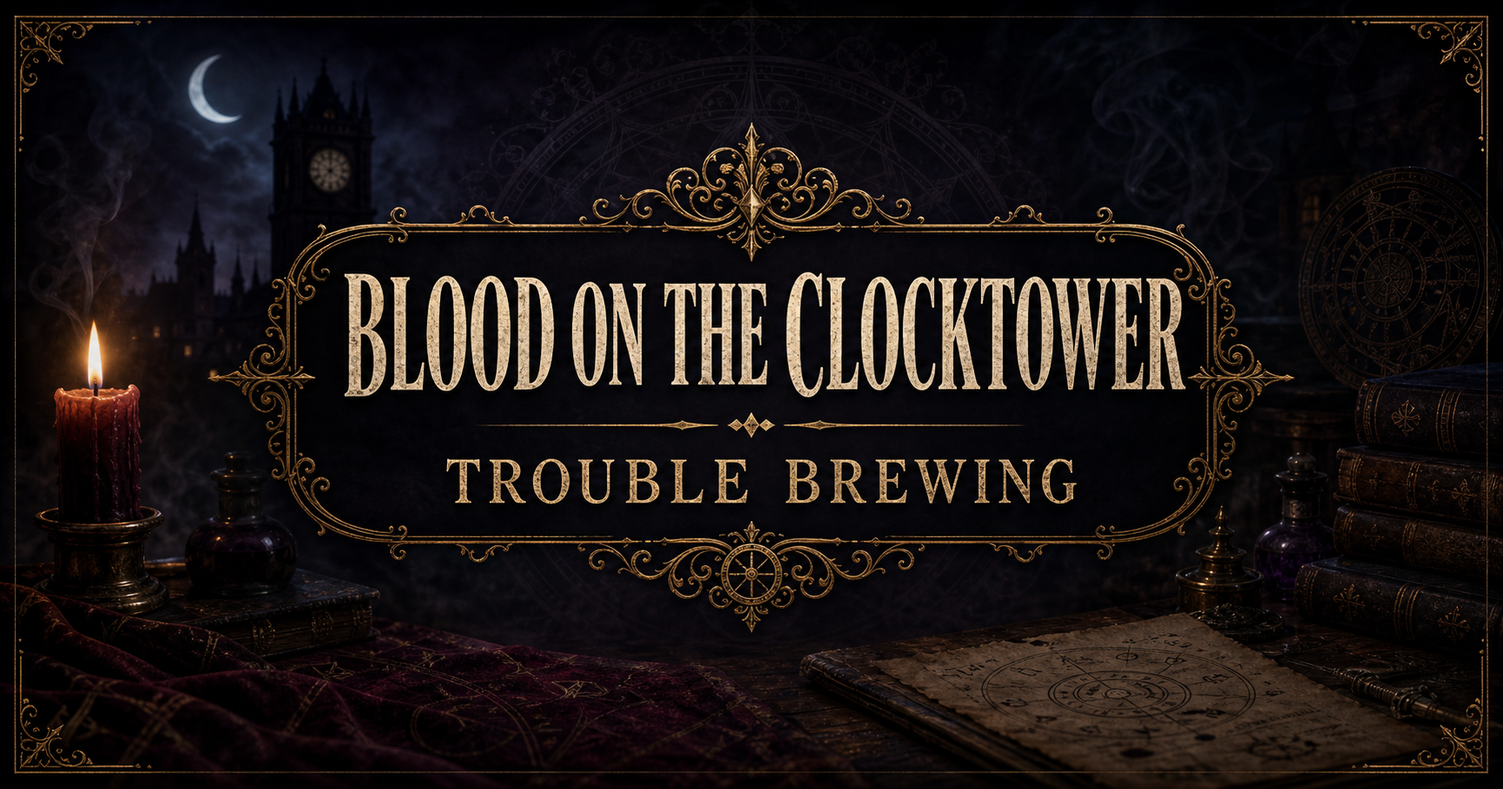
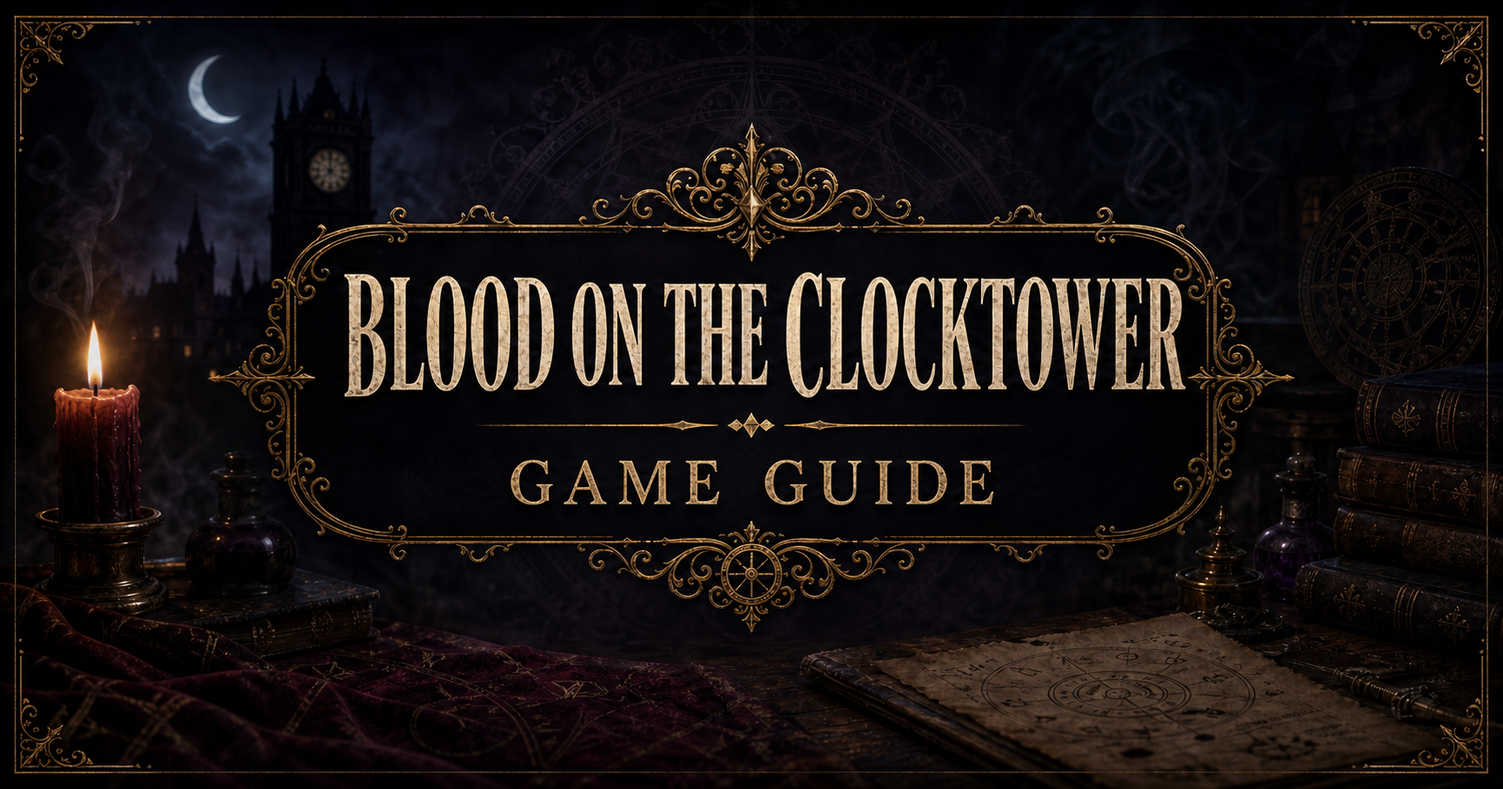
Generaliza la identidad del proyecto

diff --git a/index.html b/index.html
@@ -4,12 +4,15 @@
 <head>
   <meta charset="utf-8">
   <meta name="viewport" content="width=device-width, initial-scale=1">
-  <title>Trouble Brewing · Guía pública</title>
-  <meta id="meta-description" name="description" content="Pantalla TV de referencia pública para Blood on the Clocktower: Trouble Brewing, con música de fantasía y los 23 personajes.">
-  <meta id="og-title" property="og:title" content="Blood on the Clocktower · Trouble Brewing">
-  <meta id="og-description" property="og:description" content="Guía pública para una partida presencial de Trouble Brewing.">
+  <title>Blood on the Clocktower · Guía de juego</title>
+  <meta id="meta-description" name="description" content="Guía multilingüe para Blood on the Clocktower con personajes, habilidades y música ambiental para sus tres ediciones base.">
+  <meta name="robots" content="index,follow">
+  <link rel="canonical" href="https://emilio-devs.github.io/bloodontheclocktower/">
+  <meta id="og-title" property="og:title" content="Blood on the Clocktower · Guía de juego">
+  <meta id="og-description" property="og:description" content="Guía multilingüe para acompañar partidas presenciales de Blood on the Clocktower.">
   <meta property="og:type" content="website">
-  <meta property="og:image" content="https://emilio-devs.github.io/blood-on-the-clock-tower-trouble-brewing-tv/og.png">
+  <meta property="og:url" content="https://emilio-devs.github.io/bloodontheclocktower/">
+  <meta property="og:image" content="https://emilio-devs.github.io/bloodontheclocktower/og.png">
   <style>
     :root{--cream:#f2e8d2;--muted:#d0c6b4;--gold:#b99a59;--town:#74b9e8;--out:#57cec8;--min:#e57c47;--demon:#ef4350}
     *{box-sizing:border-box}html,body{width:100%;height:100%;margin:0;overflow:hidden}html[data-ready="false"] body{visibility:hidden}body{background:#07070a;color:var(--cream);font-family:"Segoe UI",Arial,sans-serif;-webkit-font-smoothing:antialiased}button,input{font:inherit}button{color:inherit}.visually-hidden{position:absolute!important;width:1px!important;height:1px!important;padding:0!important;margin:-1px!important;overflow:hidden!important;clip:rect(0,0,0,0)!important;white-space:nowrap!important;border:0!important}
@@ -57,7 +60,7 @@
   <main id="app">
     <div class="mist" aria-hidden="true"></div>
     <header>
-      <div class="brand"><div class="moon" aria-hidden="true">☾</div><div class="brand-copy"><p id="brand-name">Blood on the Clocktower</p><h1 class="visually-hidden" id="page-heading">Blood on the Clocktower · Trouble Brewing</h1><div class="dropdown edition-picker"><button id="edition-trigger" class="edition-trigger" type="button" aria-haspopup="menu" aria-expanded="false" aria-controls="edition-menu"><span id="edition-name">Trouble Brewing</span><i data-lucide="chevron-down" aria-hidden="true"></i></button><div id="edition-menu" class="dropdown-menu edition-menu" role="menu"></div></div></div></div>
+      <div class="brand"><div class="moon" aria-hidden="true">☾</div><div class="brand-copy"><p id="brand-name">Blood on the Clocktower</p><h1 class="visually-hidden" id="page-heading">Blood on the Clocktower · Guía de juego</h1><div class="dropdown edition-picker"><button id="edition-trigger" class="edition-trigger" type="button" aria-haspopup="menu" aria-expanded="false" aria-controls="edition-menu"><span id="edition-name">Trouble Brewing</span><i data-lucide="chevron-down" aria-hidden="true"></i></button><div id="edition-menu" class="dropdown-menu edition-menu" role="menu"></div></div></div></div>
       <div class="now"><small id="ambience-label">Ambiente seleccionado</small><span id="track-name">Preparando ambiente…</span></div>
       <div class="controls" aria-label="Controles globales">
         <div class="dropdown language-picker"><button id="language-trigger" class="language-trigger" type="button" aria-haspopup="menu" aria-expanded="false" aria-controls="language-menu"><i data-lucide="languages" aria-hidden="true"></i><span id="language-code" class="language-code">ES</span><i class="chevron" data-lucide="chevron-down" aria-hidden="true"></i></button><div id="language-menu" class="dropdown-menu language-menu" role="menu"></div></div>
@@ -79,7 +82,7 @@
     <div id="track-toast" class="track-toast" aria-live="polite"></div>
   </main>
   <script src="https://unpkg.com/lucide@0.468.0/dist/umd/lucide.min.js"></script>
-  <script id="i18n-data" type="application/json">{"es":{"locale":"es","label":"Español","ui":{"brand":"Blood on the Clocktower","documentTitle":"{edition} · Guía pública","metaDescription":"Pantalla TV de referencia pública para Blood on the Clocktower: {edition}, con música de fantasía y los personajes del guion.","ogTitle":"Blood on the Clocktower · {edition}","ogDescription":"Guía pública para una partida presencial de {edition}.","editionSelector":"Seleccionar edición","languageSelector":"Seleccionar idioma","comingSoon":"Próximamente","ambienceSelected":"Ambiente seleccionado","preparingAmbience":"Preparando ambiente…","controls":"Controles globales","play":"Reproducir","pause":"Pausar","playMusic":"Reproducir música","pauseMusic":"Pausar música","nextTrack":"Cambiar canción","volume":"Volumen de la música","fullscreen":"Pantalla completa","exitFullscreen":"Salir de pantalla completa","nowPlaying":"Ahora suena: {track}","footer":"Guía pública para jugadores"},"trackMoods":{"tavernFolk":"taberna folk","medievalDance":"danza medieval","darkFolk":"folk oscuro","violinLute":"violín y laúd","livelyTavern":"taberna animada"},"editions":[{"id":"trouble-brewing","name":"Trouble Brewing","status":"available","groups":[{"id":"townsfolk","label":"Aldeanos","note":"","roles":[{"id":"generic-townsfolk","name":"Aldeano","icon":"user","ability":["No tienes ninguna habilidad. ¡Pero sigues siendo una buena persona! Ayuda a tu pueblo a encontrar al Demonio."]},{"id":"washerwoman","name":"Lavandera","icon":"shirt","ability":["La primera noche, descubres que entre 2 jugadores, 1 es un \u003cstrong>Aldeano\u003c/strong> concreto."]},{"id":"librarian","name":"Bibliotecario","icon":"book-marked","ability":["La primera noche, descubres que entre 2 jugadores, 1 es un \u003cstrong>Forastero\u003c/strong> concreto. (O que no hay ninguno en juego.)"]},{"id":"investigator","name":"Investigador","icon":"search","ability":["La primera noche, descubres que entre 2 jugadores, 1 es un \u003cstrong>Secuaz\u003c/strong> concreto."]},{"id":"chef","name":"Chef","icon":"chef-hat","ability":["La primera noche, descubres cuántas parejas de jugadores malvados están sentadas juntas."]},{"id":"empath","name":"Empático","icon":"hand-heart","ability":["Cada noche, descubres cuántos de tus 2 vecinos vivos son malvados."]},{"id":"fortune-teller","name":"Adivino","icon":"eye","ability":["Cada noche, elige 2 jugadores: descubres si alguno es el \u003cstrong>Demonio\u003c/strong>. Un jugador bueno puede aparecer como \u003cstrong>Demonio\u003c/strong>, aunque no lo sea."]},{"id":"undertaker","name":"Enterrador","icon":"shovel","ability":["Cada noche, después de la primera, descubres el rol del jugador ejecutado durante el día."]},{"id":"monk","name":"Monje","icon":"church","ability":["Cada noche, después de la primera, elige a otro jugador: el \u003cstrong>Demonio\u003c/strong> no puede matarlo esa noche."]},{"id":"ravenkeeper","name":"Guardacuervos","icon":"bird","ability":["Si mueres de noche, elige un jugador y descubres su rol."]},{"id":"soldier","name":"Soldado","icon":"shield","ability":["Si el \u003cstrong>Demonio\u003c/strong> te elige como víctima, no puede matarte."]},{"id":"virgin","name":"Virgen","icon":"flower-2","ability":["La primera vez que te nominen, si quien lo hace es un \u003cstrong>Aldeano\u003c/strong>, es ejecutado inmediatamente. Si no, no ocurre nada y pierdes esta habilidad."]},{"id":"slayer","name":"Verdugo","icon":"crosshair","ability":["Una vez por partida, durante el día, elige públicamente a un jugador: si es el \u003cstrong>Demonio\u003c/strong>, muere."]},{"id":"mayor","name":"Alcalde","icon":"landmark","ability":["Si solo quedan 3 jugadores vivos y no hay ejecución, tu equipo gana. Si mueres de noche, otro jugador podría morir en tu lugar."]}]},{"id":"outsiders","label":"Forasteros","note":"","roles":[{"id":"saint","name":"Santo","icon":"sparkles","ability":["Si el pueblo te ejecuta, tu equipo pierde."]},{"id":"recluse","name":"Recluso","icon":"castle","ability":["Las habilidades que te investiguen podrían verte como \u003cstrong>malvado\u003c/strong>, \u003cstrong>Secuaz\u003c/strong> o \u003cstrong>Demonio\u003c/strong>, aunque no lo seas, incluso muerto."]},{"id":"drunk","name":"Borracho","icon":"beer","ability":["No sabes que eres el Borracho. Crees que eres un personaje Aldeano, pero no lo eres."]},{"id":"butler","name":"Mayordomo","icon":"bell-ring","ability":["Cada noche, elige a un jugador (no tú): mañana solo puedes votar si ese jugador también vota en esa nominación."]}]},{"id":"minions","label":"Secuaces","note":"No saben quién es el \u003cstrong>Demonio\u003c/strong>.","roles":[{"id":"scarlet-woman","name":"Mujer Escarlata","icon":"flower","ability":["Si hay 5 o más jugadores vivos y el Demonio muere, tú te conviertes en el Demonio."]},{"id":"poisoner","name":"Envenenador","icon":"flask-conical","ability":["Cada noche, envenenas a un jugador hasta el anochecer siguiente. Envenenado: su habilidad no funciona y puede recibir información falsa."]},{"id":"baron","name":"Barón","icon":"crown","ability":["Hay Forasteros extra en juego. [+2 Forasteros]"]},{"id":"spy","name":"Espía","icon":"glasses","ability":["Cada noche, ves el Grimorio. Las habilidades que te investiguen podrían verte como \u003cstrong>bueno\u003c/strong>, \u003cstrong>Aldeano\u003c/strong> o \u003cstrong>Forastero\u003c/strong>, aunque no lo seas, incluso muerto."]}]},{"id":"demon","label":"Demonio","note":"La primera noche, conoce qué jugadores son sus \u003cstrong>Secuaces\u003c/strong>, pero no sus roles, y 3 roles de farol que no están en juego.","roles":[{"id":"imp","name":"Diablo","icon":"flame","ability":["Cada noche, después de la primera, elige a un jugador: muere.","Si te eliges a ti mismo, un Secuaz se convierte en el \u003cstrong>Demonio\u003c/strong>."]}]}]},{"id":"bad-moon-rising","name":"Bad Moon Rising","status":"coming-soon","groups":[]},{"id":"sects-and-violets","name":"Sects & Violets","status":"coming-soon","groups":[]}]},"en":{"locale":"en","label":"English","ui":{"brand":"Blood on the Clocktower","documentTitle":"{edition} · Public guide","metaDescription":"TV reference screen for Blood on the Clocktower: {edition}, with fantasy music and every character on the script.","ogTitle":"Blood on the Clocktower · {edition}","ogDescription":"Public reference guide for an in-person game of {edition}.","editionSelector":"Select edition","languageSelector":"Select language","comingSoon":"Coming soon","ambienceSelected":"Selected ambience","preparingAmbience":"Preparing ambience…","controls":"Global controls","play":"Play","pause":"Pause","playMusic":"Play music","pauseMusic":"Pause music","nextTrack":"Change track","volume":"Music volume","fullscreen":"Fullscreen","exitFullscreen":"Exit fullscreen","nowPlaying":"Now playing: {track}","footer":"Public guide for players"},"trackMoods":{"tavernFolk":"tavern folk","medievalDance":"medieval dance","darkFolk":"dark folk","violinLute":"violin and lute","livelyTavern":"lively tavern"},"editions":[{"id":"trouble-brewing","name":"Trouble Brewing","status":"available","groups":[{"id":"townsfolk","label":"Townsfolk","note":"","roles":[{"id":"generic-townsfolk","name":"Townsfolk","icon":"user","ability":["You have no ability. But you are still a good person! Help your town find the Demon."]},{"id":"washerwoman","name":"Washerwoman","icon":"shirt","ability":["On the first night, you learn that between 2 players, 1 is a specific \u003cstrong>Townsfolk\u003c/strong>."]},{"id":"librarian","name":"Librarian","icon":"book-marked","ability":["On the first night, you learn that between 2 players, 1 is a specific \u003cstrong>Outsider\u003c/strong>. (Or that none are in play.)"]},{"id":"investigator","name":"Investigator","icon":"search","ability":["On the first night, you learn that between 2 players, 1 is a specific \u003cstrong>Minion\u003c/strong>."]},{"id":"chef","name":"Chef","icon":"chef-hat","ability":["On the first night, you learn how many pairs of evil players are sitting next to each other."]},{"id":"empath","name":"Empath","icon":"hand-heart","ability":["Each night, you learn how many of your 2 alive neighbours are evil."]},{"id":"fortune-teller","name":"Fortune Teller","icon":"eye","ability":["Each night, choose 2 players: you learn if either is the \u003cstrong>Demon\u003c/strong>. One good player may appear as the \u003cstrong>Demon\u003c/strong>, even though they are not."]},{"id":"undertaker","name":"Undertaker","icon":"shovel","ability":["Each night, except the first, you learn the role of the player executed today."]},{"id":"monk","name":"Monk","icon":"church","ability":["Each night, except the first, choose another player: the \u003cstrong>Demon\u003c/strong> cannot kill them tonight."]},{"id":"ravenkeeper","name":"Ravenkeeper","icon":"bird","ability":["If you die at night, choose a player and learn their role."]},{"id":"soldier","name":"Soldier","icon":"shield","ability":["If the \u003cstrong>Demon\u003c/strong> chooses you as their victim, they cannot kill you."]},{"id":"virgin","name":"Virgin","icon":"flower-2","ability":["The first time you are nominated, if the nominator is a \u003cstrong>Townsfolk\u003c/strong>, they are executed immediately. Otherwise, nothing happens and you lose this ability."]},{"id":"slayer","name":"Slayer","icon":"crosshair","ability":["Once per game, during the day, publicly choose a player: if they are the \u003cstrong>Demon\u003c/strong>, they die."]},{"id":"mayor","name":"Mayor","icon":"landmark","ability":["If only 3 players are alive and there is no execution, your team wins. If you die at night, another player might die instead."]}]},{"id":"outsiders","label":"Outsiders","note":"","roles":[{"id":"saint","name":"Saint","icon":"sparkles","ability":["If the town executes you, your team loses."]},{"id":"recluse","name":"Recluse","icon":"castle","ability":["Abilities that investigate you may see you as \u003cstrong>evil\u003c/strong>, a \u003cstrong>Minion\u003c/strong> or a \u003cstrong>Demon\u003c/strong>, even though you are not, even while dead."]},{"id":"drunk","name":"Drunk","icon":"beer","ability":["You do not know that you are the Drunk. You think you are a Townsfolk character, but you are not."]},{"id":"butler","name":"Butler","icon":"bell-ring","ability":["Each night, choose a player (not yourself): tomorrow you may only vote if that player also votes in that nomination."]}]},{"id":"minions","label":"Minions","note":"They do not know who the \u003cstrong>Demon\u003c/strong> is.","roles":[{"id":"scarlet-woman","name":"Scarlet Woman","icon":"flower","ability":["If 5 or more players are alive and the Demon dies, you become the Demon."]},{"id":"poisoner","name":"Poisoner","icon":"flask-conical","ability":["Each night, poison a player until the following dusk. While poisoned, their ability does not work and they may receive false information."]},{"id":"baron","name":"Baron","icon":"crown","ability":["There are extra Outsiders in play. [+2 Outsiders]"]},{"id":"spy","name":"Spy","icon":"glasses","ability":["Each night, you see the Grimoire. Abilities that investigate you may see you as \u003cstrong>good\u003c/strong>, a \u003cstrong>Townsfolk\u003c/strong> or an \u003cstrong>Outsider\u003c/strong>, even though you are not, even while dead."]}]},{"id":"demon","label":"Demon","note":"On the first night, the Demon learns which players are their \u003cstrong>Minions\u003c/strong>, but not their roles, and 3 bluff roles that are not in play.","roles":[{"id":"imp","name":"Imp","icon":"flame","ability":["Each night, except the first, choose a player: they die.","If you choose yourself, a Minion becomes the \u003cstrong>Demon\u003c/strong>."]}]}]},{"id":"bad-moon-rising","name":"Bad Moon Rising","status":"coming-soon","groups":[]},{"id":"sects-and-violets","name":"Sects & Violets","status":"coming-soon","groups":[]}]}}</script>
+  <script id="i18n-data" type="application/json">{"es":{"locale":"es","label":"Español","ui":{"brand":"Blood on the Clocktower","documentTitle":"Blood on the Clocktower · Guía de juego","metaDescription":"Guía multilingüe para Blood on the Clocktower con personajes, habilidades y música ambiental para sus tres ediciones base.","ogTitle":"Blood on the Clocktower · Guía de juego","ogDescription":"Guía multilingüe para acompañar partidas presenciales de Blood on the Clocktower.","editionSelector":"Seleccionar edición","languageSelector":"Seleccionar idioma","comingSoon":"Próximamente","ambienceSelected":"Ambiente seleccionado","preparingAmbience":"Preparando ambiente…","controls":"Controles globales","play":"Reproducir","pause":"Pausar","playMusic":"Reproducir música","pauseMusic":"Pausar música","nextTrack":"Cambiar canción","volume":"Volumen de la música","fullscreen":"Pantalla completa","exitFullscreen":"Salir de pantalla completa","nowPlaying":"Ahora suena: {track}","footer":"Guía pública para jugadores"},"trackMoods":{"tavernFolk":"taberna folk","medievalDance":"danza medieval","darkFolk":"folk oscuro","violinLute":"violín y laúd","livelyTavern":"taberna animada"},"editions":[{"id":"trouble-brewing","name":"Trouble Brewing","status":"available","groups":[{"id":"townsfolk","label":"Aldeanos","note":"","roles":[{"id":"generic-townsfolk","name":"Aldeano","icon":"user","ability":["No tienes ninguna habilidad. ¡Pero sigues siendo una buena persona! Ayuda a tu pueblo a encontrar al Demonio."]},{"id":"washerwoman","name":"Lavandera","icon":"shirt","ability":["La primera noche, descubres que entre 2 jugadores, 1 es un \u003cstrong>Aldeano\u003c/strong> concreto."]},{"id":"librarian","name":"Bibliotecario","icon":"book-marked","ability":["La primera noche, descubres que entre 2 jugadores, 1 es un \u003cstrong>Forastero\u003c/strong> concreto. (O que no hay ninguno en juego.)"]},{"id":"investigator","name":"Investigador","icon":"search","ability":["La primera noche, descubres que entre 2 jugadores, 1 es un \u003cstrong>Secuaz\u003c/strong> concreto."]},{"id":"chef","name":"Chef","icon":"chef-hat","ability":["La primera noche, descubres cuántas parejas de jugadores malvados están sentadas juntas."]},{"id":"empath","name":"Empático","icon":"hand-heart","ability":["Cada noche, descubres cuántos de tus 2 vecinos vivos son malvados."]},{"id":"fortune-teller","name":"Adivino","icon":"eye","ability":["Cada noche, elige 2 jugadores: descubres si alguno es el \u003cstrong>Demonio\u003c/strong>. Un jugador bueno puede aparecer como \u003cstrong>Demonio\u003c/strong>, aunque no lo sea."]},{"id":"undertaker","name":"Enterrador","icon":"shovel","ability":["Cada noche, después de la primera, descubres el rol del jugador ejecutado durante el día."]},{"id":"monk","name":"Monje","icon":"church","ability":["Cada noche, después de la primera, elige a otro jugador: el \u003cstrong>Demonio\u003c/strong> no puede matarlo esa noche."]},{"id":"ravenkeeper","name":"Guardacuervos","icon":"bird","ability":["Si mueres de noche, elige un jugador y descubres su rol."]},{"id":"soldier","name":"Soldado","icon":"shield","ability":["Si el \u003cstrong>Demonio\u003c/strong> te elige como víctima, no puede matarte."]},{"id":"virgin","name":"Virgen","icon":"flower-2","ability":["La primera vez que te nominen, si quien lo hace es un \u003cstrong>Aldeano\u003c/strong>, es ejecutado inmediatamente. Si no, no ocurre nada y pierdes esta habilidad."]},{"id":"slayer","name":"Verdugo","icon":"crosshair","ability":["Una vez por partida, durante el día, elige públicamente a un jugador: si es el \u003cstrong>Demonio\u003c/strong>, muere."]},{"id":"mayor","name":"Alcalde","icon":"landmark","ability":["Si solo quedan 3 jugadores vivos y no hay ejecución, tu equipo gana. Si mueres de noche, otro jugador podría morir en tu lugar."]}]},{"id":"outsiders","label":"Forasteros","note":"","roles":[{"id":"saint","name":"Santo","icon":"sparkles","ability":["Si el pueblo te ejecuta, tu equipo pierde."]},{"id":"recluse","name":"Recluso","icon":"castle","ability":["Las habilidades que te investiguen podrían verte como \u003cstrong>malvado\u003c/strong>, \u003cstrong>Secuaz\u003c/strong> o \u003cstrong>Demonio\u003c/strong>, aunque no lo seas, incluso muerto."]},{"id":"drunk","name":"Borracho","icon":"beer","ability":["No sabes que eres el Borracho. Crees que eres un personaje Aldeano, pero no lo eres."]},{"id":"butler","name":"Mayordomo","icon":"bell-ring","ability":["Cada noche, elige a un jugador (no tú): mañana solo puedes votar si ese jugador también vota en esa nominación."]}]},{"id":"minions","label":"Secuaces","note":"No saben quién es el \u003cstrong>Demonio\u003c/strong>.","roles":[{"id":"scarlet-woman","name":"Mujer Escarlata","icon":"flower","ability":["Si hay 5 o más jugadores vivos y el Demonio muere, tú te conviertes en el Demonio."]},{"id":"poisoner","name":"Envenenador","icon":"flask-conical","ability":["Cada noche, envenenas a un jugador hasta el anochecer siguiente. Envenenado: su habilidad no funciona y puede recibir información falsa."]},{"id":"baron","name":"Barón","icon":"crown","ability":["Hay Forasteros extra en juego. [+2 Forasteros]"]},{"id":"spy","name":"Espía","icon":"glasses","ability":["Cada noche, ves el Grimorio. Las habilidades que te investiguen podrían verte como \u003cstrong>bueno\u003c/strong>, \u003cstrong>Aldeano\u003c/strong> o \u003cstrong>Forastero\u003c/strong>, aunque no lo seas, incluso muerto."]}]},{"id":"demon","label":"Demonio","note":"La primera noche, conoce qué jugadores son sus \u003cstrong>Secuaces\u003c/strong>, pero no sus roles, y 3 roles de farol que no están en juego.","roles":[{"id":"imp","name":"Diablo","icon":"flame","ability":["Cada noche, después de la primera, elige a un jugador: muere.","Si te eliges a ti mismo, un Secuaz se convierte en el \u003cstrong>Demonio\u003c/strong>."]}]}]},{"id":"bad-moon-rising","name":"Bad Moon Rising","status":"coming-soon","groups":[]},{"id":"sects-and-violets","name":"Sects & Violets","status":"coming-soon","groups":[]}]},"en":{"locale":"en","label":"English","ui":{"brand":"Blood on the Clocktower","documentTitle":"Blood on the Clocktower · Game Guide","metaDescription":"A multilingual Blood on the Clocktower guide with characters, abilities and fantasy ambience for all three base editions.","ogTitle":"Blood on the Clocktower · Game Guide","ogDescription":"A multilingual companion guide for in-person Blood on the Clocktower games.","editionSelector":"Select edition","languageSelector":"Select language","comingSoon":"Coming soon","ambienceSelected":"Selected ambience","preparingAmbience":"Preparing ambience…","controls":"Global controls","play":"Play","pause":"Pause","playMusic":"Play music","pauseMusic":"Pause music","nextTrack":"Change track","volume":"Music volume","fullscreen":"Fullscreen","exitFullscreen":"Exit fullscreen","nowPlaying":"Now playing: {track}","footer":"Public guide for players"},"trackMoods":{"tavernFolk":"tavern folk","medievalDance":"medieval dance","darkFolk":"dark folk","violinLute":"violin and lute","livelyTavern":"lively tavern"},"editions":[{"id":"trouble-brewing","name":"Trouble Brewing","status":"available","groups":[{"id":"townsfolk","label":"Townsfolk","note":"","roles":[{"id":"generic-townsfolk","name":"Townsfolk","icon":"user","ability":["You have no ability. But you are still a good person! Help your town find the Demon."]},{"id":"washerwoman","name":"Washerwoman","icon":"shirt","ability":["On the first night, you learn that between 2 players, 1 is a specific \u003cstrong>Townsfolk\u003c/strong>."]},{"id":"librarian","name":"Librarian","icon":"book-marked","ability":["On the first night, you learn that between 2 players, 1 is a specific \u003cstrong>Outsider\u003c/strong>. (Or that none are in play.)"]},{"id":"investigator","name":"Investigator","icon":"search","ability":["On the first night, you learn that between 2 players, 1 is a specific \u003cstrong>Minion\u003c/strong>."]},{"id":"chef","name":"Chef","icon":"chef-hat","ability":["On the first night, you learn how many pairs of evil players are sitting next to each other."]},{"id":"empath","name":"Empath","icon":"hand-heart","ability":["Each night, you learn how many of your 2 alive neighbours are evil."]},{"id":"fortune-teller","name":"Fortune Teller","icon":"eye","ability":["Each night, choose 2 players: you learn if either is the \u003cstrong>Demon\u003c/strong>. One good player may appear as the \u003cstrong>Demon\u003c/strong>, even though they are not."]},{"id":"undertaker","name":"Undertaker","icon":"shovel","ability":["Each night, except the first, you learn the role of the player executed today."]},{"id":"monk","name":"Monk","icon":"church","ability":["Each night, except the first, choose another player: the \u003cstrong>Demon\u003c/strong> cannot kill them tonight."]},{"id":"ravenkeeper","name":"Ravenkeeper","icon":"bird","ability":["If you die at night, choose a player and learn their role."]},{"id":"soldier","name":"Soldier","icon":"shield","ability":["If the \u003cstrong>Demon\u003c/strong> chooses you as their victim, they cannot kill you."]},{"id":"virgin","name":"Virgin","icon":"flower-2","ability":["The first time you are nominated, if the nominator is a \u003cstrong>Townsfolk\u003c/strong>, they are executed immediately. Otherwise, nothing happens and you lose this ability."]},{"id":"slayer","name":"Slayer","icon":"crosshair","ability":["Once per game, during the day, publicly choose a player: if they are the \u003cstrong>Demon\u003c/strong>, they die."]},{"id":"mayor","name":"Mayor","icon":"landmark","ability":["If only 3 players are alive and there is no execution, your team wins. If you die at night, another player might die instead."]}]},{"id":"outsiders","label":"Outsiders","note":"","roles":[{"id":"saint","name":"Saint","icon":"sparkles","ability":["If the town executes you, your team loses."]},{"id":"recluse","name":"Recluse","icon":"castle","ability":["Abilities that investigate you may see you as \u003cstrong>evil\u003c/strong>, a \u003cstrong>Minion\u003c/strong> or a \u003cstrong>Demon\u003c/strong>, even though you are not, even while dead."]},{"id":"drunk","name":"Drunk","icon":"beer","ability":["You do not know that you are the Drunk. You think you are a Townsfolk character, but you are not."]},{"id":"butler","name":"Butler","icon":"bell-ring","ability":["Each night, choose a player (not yourself): tomorrow you may only vote if that player also votes in that nomination."]}]},{"id":"minions","label":"Minions","note":"They do not know who the \u003cstrong>Demon\u003c/strong> is.","roles":[{"id":"scarlet-woman","name":"Scarlet Woman","icon":"flower","ability":["If 5 or more players are alive and the Demon dies, you become the Demon."]},{"id":"poisoner","name":"Poisoner","icon":"flask-conical","ability":["Each night, poison a player until the following dusk. While poisoned, their ability does not work and they may receive false information."]},{"id":"baron","name":"Baron","icon":"crown","ability":["There are extra Outsiders in play. [+2 Outsiders]"]},{"id":"spy","name":"Spy","icon":"glasses","ability":["Each night, you see the Grimoire. Abilities that investigate you may see you as \u003cstrong>good\u003c/strong>, a \u003cstrong>Townsfolk\u003c/strong> or an \u003cstrong>Outsider\u003c/strong>, even though you are not, even while dead."]}]},{"id":"demon","label":"Demon","note":"On the first night, the Demon learns which players are their \u003cstrong>Minions\u003c/strong>, but not their roles, and 3 bluff roles that are not in play.","roles":[{"id":"imp","name":"Imp","icon":"flame","ability":["Each night, except the first, choose a player: they die.","If you choose yourself, a Minion becomes the \u003cstrong>Demon\u003c/strong>."]}]}]},{"id":"bad-moon-rising","name":"Bad Moon Rising","status":"coming-soon","groups":[]},{"id":"sects-and-violets","name":"Sects & Violets","status":"coming-soon","groups":[]}]}}</script>
   <script>
 function resolveLocale({storedLocale, browserLanguage, supportedLocales, defaultLocale = 'es'}) {
   if (supportedLocales.includes(storedLocale)) return storedLocale;
@@ -272,7 +275,7 @@ function resolveEdition({storedEdition, editions, defaultEdition = 'trouble-brew
     elements.ogTitle.content = format(ui.ogTitle, {edition: edition.name});
     elements.ogDescription.content = format(ui.ogDescription, {edition: edition.name});
     elements.brand.textContent = ui.brand;
-    elements.heading.textContent = `${ui.brand} · ${edition.name}`;
+    elements.heading.textContent = title;
     elements.editionName.textContent = edition.name;
     elements.editionTrigger.setAttribute('aria-label', `${ui.editionSelector}: ${edition.name}`);
     elements.languageCode.textContent = currentLocale.toUpperCase();

diff --git a/src/index.template.html b/src/index.template.html
@@ -4,12 +4,15 @@
 <head>
   <meta charset="utf-8">
   <meta name="viewport" content="width=device-width, initial-scale=1">
-  <title>Trouble Brewing · Guía pública</title>
-  <meta id="meta-description" name="description" content="Pantalla TV de referencia pública para Blood on the Clocktower: Trouble Brewing, con música de fantasía y los 23 personajes.">
-  <meta id="og-title" property="og:title" content="Blood on the Clocktower · Trouble Brewing">
-  <meta id="og-description" property="og:description" content="Guía pública para una partida presencial de Trouble Brewing.">
+  <title>Blood on the Clocktower · Guía de juego</title>
+  <meta id="meta-description" name="description" content="Guía multilingüe para Blood on the Clocktower con personajes, habilidades y música ambiental para sus tres ediciones base.">
+  <meta name="robots" content="index,follow">
+  <link rel="canonical" href="https://emilio-devs.github.io/bloodontheclocktower/">
+  <meta id="og-title" property="og:title" content="Blood on the Clocktower · Guía de juego">
+  <meta id="og-description" property="og:description" content="Guía multilingüe para acompañar partidas presenciales de Blood on the Clocktower.">
   <meta property="og:type" content="website">
-  <meta property="og:image" content="https://emilio-devs.github.io/blood-on-the-clock-tower-trouble-brewing-tv/og.png">
+  <meta property="og:url" content="https://emilio-devs.github.io/bloodontheclocktower/">
+  <meta property="og:image" content="https://emilio-devs.github.io/bloodontheclocktower/og.png">
   <style>
     :root{--cream:#f2e8d2;--muted:#d0c6b4;--gold:#b99a59;--town:#74b9e8;--out:#57cec8;--min:#e57c47;--demon:#ef4350}
     *{box-sizing:border-box}html,body{width:100%;height:100%;margin:0;overflow:hidden}html[data-ready="false"] body{visibility:hidden}body{background:#07070a;color:var(--cream);font-family:"Segoe UI",Arial,sans-serif;-webkit-font-smoothing:antialiased}button,input{font:inherit}button{color:inherit}.visually-hidden{position:absolute!important;width:1px!important;height:1px!important;padding:0!important;margin:-1px!important;overflow:hidden!important;clip:rect(0,0,0,0)!important;white-space:nowrap!important;border:0!important}
@@ -57,7 +60,7 @@
   <main id="app">
     <div class="mist" aria-hidden="true"></div>
     <header>
-      <div class="brand"><div class="moon" aria-hidden="true">☾</div><div class="brand-copy"><p id="brand-name">Blood on the Clocktower</p><h1 class="visually-hidden" id="page-heading">Blood on the Clocktower · Trouble Brewing</h1><div class="dropdown edition-picker"><button id="edition-trigger" class="edition-trigger" type="button" aria-haspopup="menu" aria-expanded="false" aria-controls="edition-menu"><span id="edition-name">Trouble Brewing</span><i data-lucide="chevron-down" aria-hidden="true"></i></button><div id="edition-menu" class="dropdown-menu edition-menu" role="menu"></div></div></div></div>
+      <div class="brand"><div class="moon" aria-hidden="true">☾</div><div class="brand-copy"><p id="brand-name">Blood on the Clocktower</p><h1 class="visually-hidden" id="page-heading">Blood on the Clocktower · Guía de juego</h1><div class="dropdown edition-picker"><button id="edition-trigger" class="edition-trigger" type="button" aria-haspopup="menu" aria-expanded="false" aria-controls="edition-menu"><span id="edition-name">Trouble Brewing</span><i data-lucide="chevron-down" aria-hidden="true"></i></button><div id="edition-menu" class="dropdown-menu edition-menu" role="menu"></div></div></div></div>
       <div class="now"><small id="ambience-label">Ambiente seleccionado</small><span id="track-name">Preparando ambiente…</span></div>
       <div class="controls" aria-label="Controles globales">
         <div class="dropdown language-picker"><button id="language-trigger" class="language-trigger" type="button" aria-haspopup="menu" aria-expanded="false" aria-controls="language-menu"><i data-lucide="languages" aria-hidden="true"></i><span id="language-code" class="language-code">ES</span><i class="chevron" data-lucide="chevron-down" aria-hidden="true"></i></button><div id="language-menu" class="dropdown-menu language-menu" role="menu"></div></div>

diff --git a/src/app.js b/src/app.js
@@ -178,7 +178,7 @@
     elements.ogTitle.content = format(ui.ogTitle, {edition: edition.name});
     elements.ogDescription.content = format(ui.ogDescription, {edition: edition.name});
     elements.brand.textContent = ui.brand;
-    elements.heading.textContent = `${ui.brand} · ${edition.name}`;
+    elements.heading.textContent = title;
     elements.editionName.textContent = edition.name;
     elements.editionTrigger.setAttribute('aria-label', `${ui.editionSelector}: ${edition.name}`);
     elements.languageCode.textContent = currentLocale.toUpperCase();

diff --git a/README.md b/README.md
@@ -1,10 +1,10 @@
-# Blood on the Clocktower · TV Guide
+# Blood on the Clocktower · Game Guide
 
 Pantalla de referencia pública y multilingüe para partidas presenciales de **Blood on the Clocktower**. Está diseñada principalmente para una televisión 16:9 y también se adapta a tabletas y móviles.
 
 ## Abrir la pantalla
 
-- **Online:** [abrir la versión de GitHub Pages](https://emilio-devs.github.io/blood-on-the-clock-tower-trouble-brewing-tv/)
+- **Online:** [abrir la versión de GitHub Pages](https://emilio-devs.github.io/bloodontheclocktower/)
 - **En local:** descarga `index.html` y ábrelo con Chrome o Edge.
 
 El `index.html` publicado funciona como un único archivo autónomo y puede abrirse directamente. Los datos de personajes e idiomas se incrustan durante la compilación. La música y los iconos necesitan conexión a Internet porque se cargan desde OpenGameArt y Lucide.
